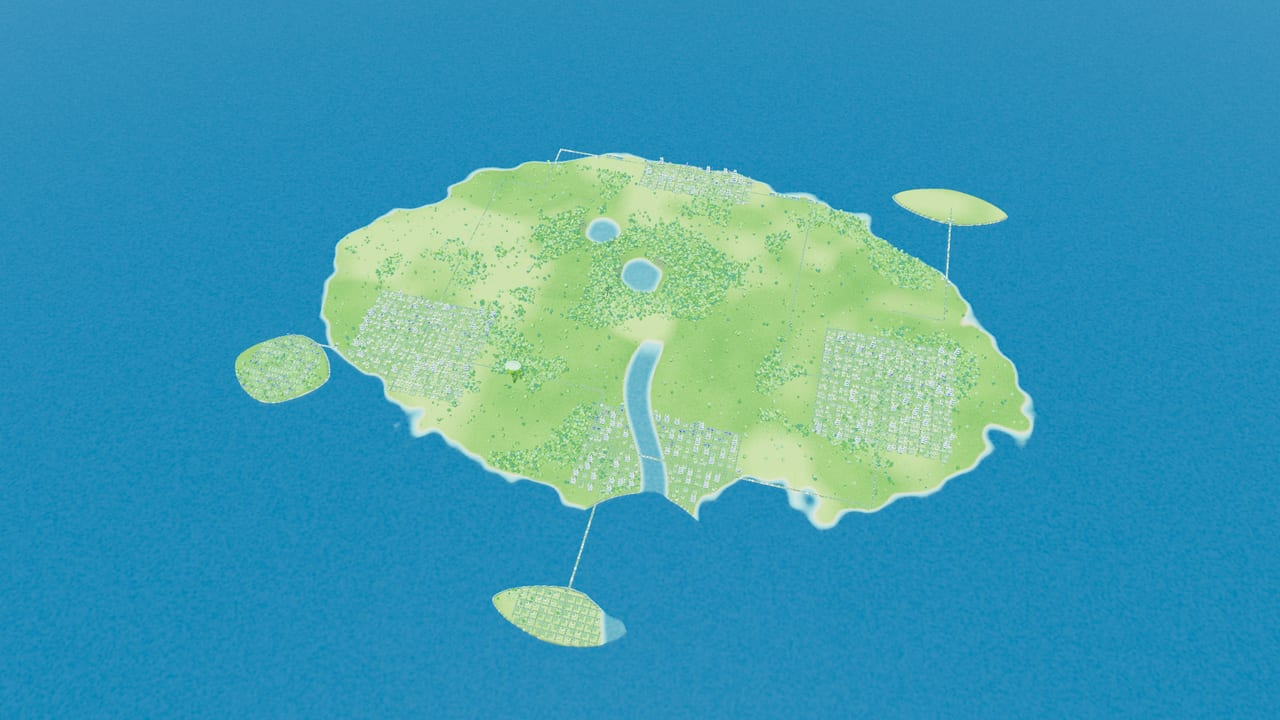
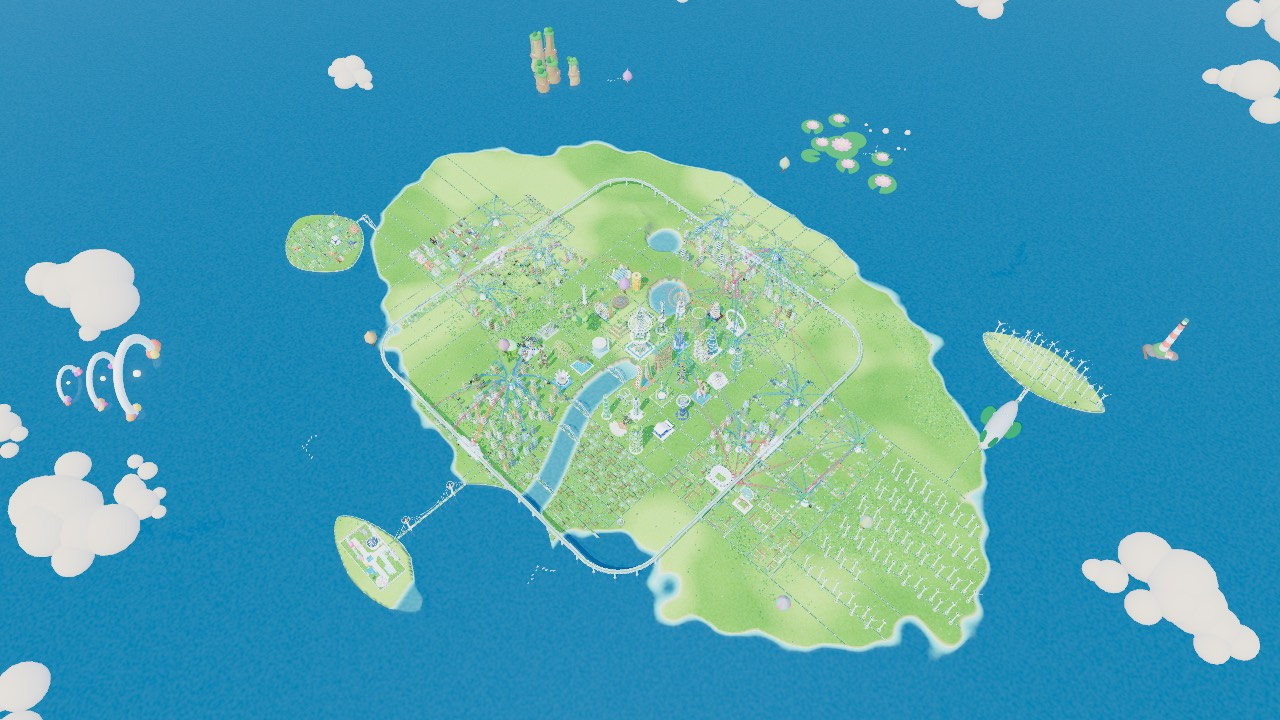
feat(readme): update images and descriptions for enhanced visual representation

diff --git a/README.md b/README.md
@@ -11,7 +11,7 @@
   <a href="#-how-to-play">How to play</a>
 </p>
 
-![A Singapore-inspired solarpunk city of garden towers along a river at sunrise](docs/images/hero.jpg)
+![The hero district: the Wellspring Spire and landmark towers along an arched-bridge river, with the Aeroline viaduct behind](docs/images/hero.jpg)
 
 You are the **steward** of a Singapore-inspired island where high-tech architecture and wild nature grow together.
 Lay living highways, raise garden towers and supertrees, and keep a city of 25,000 people powered, watered, fed and
@@ -22,8 +22,8 @@ Neglect it and the gardens wilt, the lights go out and the jungle takes the high
 
 <table>
 <tr>
-<td width="50%"><img src="docs/images/night.jpg" alt="The downtown at night: towers with glowing veins, lit streets and waterfalls"></td>
-<td width="50%"><img src="docs/images/supertree.jpg" alt="The Supertree Grove rising above a forest beside garden towers"></td>
+<td width="50%"><img src="docs/images/night.jpg" alt="The hero district at night: towers lit window by window, glowing rings and sky-lanes over the river"></td>
+<td width="50%"><img src="docs/images/supertree.jpg" alt="The Supertree Grove and solar kites rising above a forest between garden towers"></td>
 </tr>
 <tr>
 <td><b>A city that glows with life.</b> At night, flowers, fungi paths and building veins light up wherever people
@@ -32,8 +32,8 @@ are out, so busy districts shine and quiet ones dim to embers.</td>
 harvests, and every rooftop is a garden.</td>
 </tr>
 <tr>
-<td><img src="docs/images/lotus.jpg" alt="The Lotus Arts Pavilion on the coast beside a bridge and garden towers"></td>
-<td><img src="docs/images/island.jpg" alt="The whole island from above, with districts, lakes, a river and bridged islets"></td>
+<td><img src="docs/images/bloomtopia.jpg" alt="Bloomtopia, the amusement park islet, with its neon gate, wheel and coaster beside a suspension bridge"></td>
+<td><img src="docs/images/island.jpg" alt="The whole island from above: the Aeroline loop, districts, river, bridged islets, a wind farm and sea wonders"></td>
 </tr>
 <tr>
 <td><b>Landmarks worth visiting.</b> The whole island is one planned city: Bayfront down the river to the bay,
@@ -83,7 +83,7 @@ reclaim or defend.</td>
 
 ### 📊 Read your city like an instrument
 
-![The management view: City Pulse health panel, data lenses and the Flora-Net advisor over the city](docs/images/hud.jpg)
+![The management view: the City Pulse console with system health, bloom, demand and budget over the hero district](docs/images/hud.jpg)
 
 The **City Pulse** tracks energy, water, food, jobs, mobility, ecology and harmony. **Data lenses** recolour the
 whole island by power, pollution, desirability, traffic, soil or flood risk. The **Flora-Net advisor** points at
